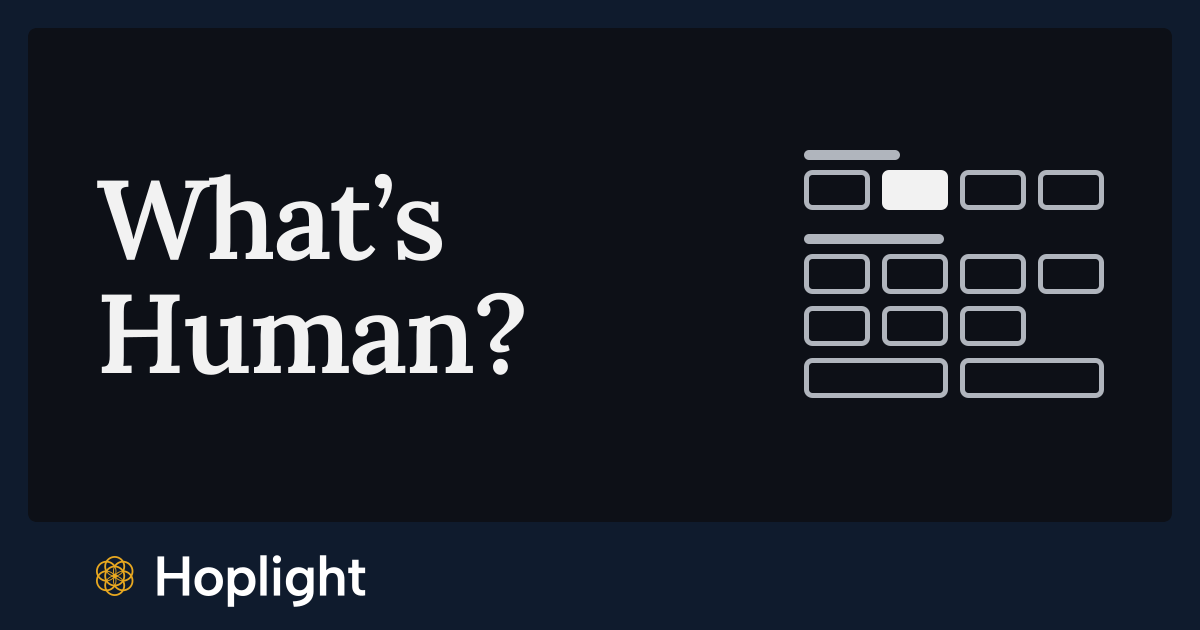
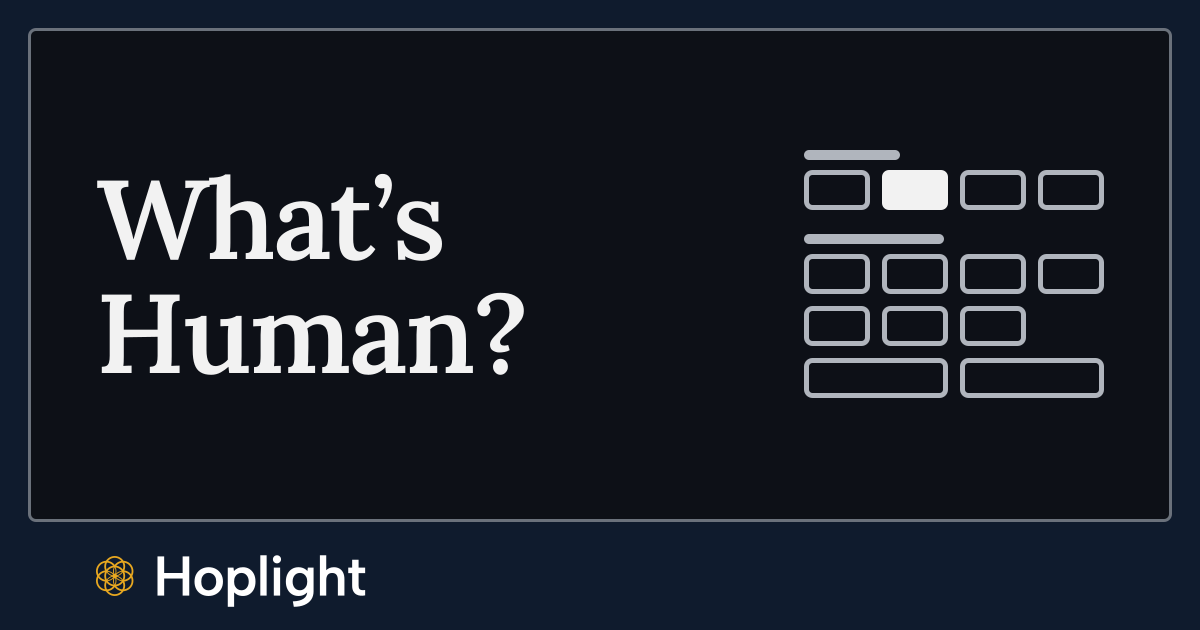
cards: the card review's two polish fixes. A ground within contrast 1.5 of the navy mat gets a light hairline at the window's edge, as a rule (today only What's Human, which keeps its own ground); the portfolio card shows the launch-day three (Revenge or Justice, The Undo List, Gut Check) as 180px t

Changed region(s): [[0.0308, 0.8143, 0.9867, 0.8444], [0.0308, 0.0302, 0.9867, 0.0603]]

diff --git a/src/lib/brand/tool-card.ts b/src/lib/brand/tool-card.ts
@@ -40,6 +40,30 @@ const PAD = 72;
 
 const LOCKUP = bloomLockup({ height: MAT_FOOT, word: '#FFFFFF' });
 
+// The hairline (card review, 2026-11-07, polish fix 1): a tool whose own ground is within this
+// contrast ratio of the mat (What's Human's near-black is 1.1) would merge with the mat at text-message
+// size, so its window gets a light line on its edge, over the field. The tool keeps its own ground.
+// 3px on the 1200 card is 0.75px at 300 wide, about two device pixels on a 3x phone; the colour is
+// the site's on-band-muted at half strength, so it reads as an edge and not as a second frame.
+export const HAIRLINE_CONTRAST = 1.5;
+const HAIRLINE = '3px solid rgba(201,211,224,0.5)';
+
+function luminance(hex: string): number {
+  const c = hex.replace('#', '');
+  const [r, g, b] = [0, 2, 4].map((i) => {
+    const v = parseInt(c.slice(i, i + 2), 16) / 255;
+    return v <= 0.03928 ? v / 12.92 : ((v + 0.055) / 1.055) ** 2.4;
+  });
+  return 0.2126 * r + 0.7152 * g + 0.0722 * b;
+}
+
+/** The WCAG contrast ratio between a ground and the mat's navy. */
+export function contrastWithMat(ground: string): number {
+  const a = luminance(ground);
+  const m = luminance(MAT);
+  return (Math.max(a, m) + 0.05) / (Math.min(a, m) + 0.05);
+}
+
 /** Every tool name on every card is set at this size; a long name takes two lines, never a smaller size. */
 export const NAME_PX = 112;
 const LINE_H = 1.02;
@@ -97,14 +121,17 @@ function picture(svg: string, w: number, hh: number = w): ReactElement {
   return h('img', { src: svgUri(svg), width: w, height: hh, alt: '' });
 }
 
-/** The portfolio's own card: "Tool library" and a row of the tools' pictures, each on its own ground. */
-const LIBRARY = ['revenge-or-justice', 'undo', 'gut-check', 'rumi', 'letters'];
-const TILE = 96;
+/** The portfolio's own card: "Tool library" and a row of the tools' pictures, each on its own ground.
+ *  The launch-day three only, drawn large so each reads as a tool at text-message size (card review,
+ *  2026-11-07: five tiles of 96 were 24px each at 300 wide; three of 180 are 45px). */
+export const LIBRARY = ['revenge-or-justice', 'undo', 'gut-check'];
+const TILE = 180;
+const TILE_GAP = 20;
 
 function libraryRow(): ReactElement {
   return h(
     'div',
-    { style: { display: 'flex', gap: '14px' } },
+    { style: { display: 'flex', gap: `${TILE_GAP}px` } },
     ...LIBRARY.map((slug) => {
       const t = TOOL_BY_SLUG[slug];
       const svg = t ? pictureSvg(t.brand) : null;
@@ -118,12 +145,12 @@ function libraryRow(): ReactElement {
             justifyContent: 'center',
             width: `${TILE}px`,
             height: `${TILE}px`,
-            borderRadius: '18px',
+            borderRadius: '28px',
             backgroundColor: t ? t.brand.ground : MAT,
-            border: '2px solid rgba(15,27,45,0.18)',
+            border: '3px solid rgba(15,27,45,0.18)',
           },
         },
-        svg ? picture(svg, TILE - 16) : null,
+        svg ? picture(svg, TILE - 36) : null,
       );
     }),
   );
@@ -158,7 +185,7 @@ export function toolCard(tool: CardSubject, fonts: CardFonts, opts: { band?: boo
     field = h(
       'div',
       { style: fieldStyle },
-      nameBlock(b, fonts, inner - (LIBRARY.length * (TILE + 14)) - GAP),
+      nameBlock(b, fonts, inner - (LIBRARY.length * (TILE + TILE_GAP)) - GAP),
       libraryRow(),
     );
   } else {
@@ -198,6 +225,20 @@ export function toolCard(tool: CardSubject, fonts: CardFonts, opts: { band?: boo
         },
       },
       field,
+      contrastWithMat(b.ground) < HAIRLINE_CONTRAST
+        ? h('div', {
+            style: {
+              display: 'flex',
+              position: 'absolute',
+              left: '0px',
+              top: '0px',
+              width: `${WIN_W}px`,
+              height: `${WIN_H}px`,
+              borderRadius: `${WIN_R}px`,
+              border: HAIRLINE,
+            },
+          })
+        : null,
     ),
     h('img', {
       src: svgUri(LOCKUP.svg),
